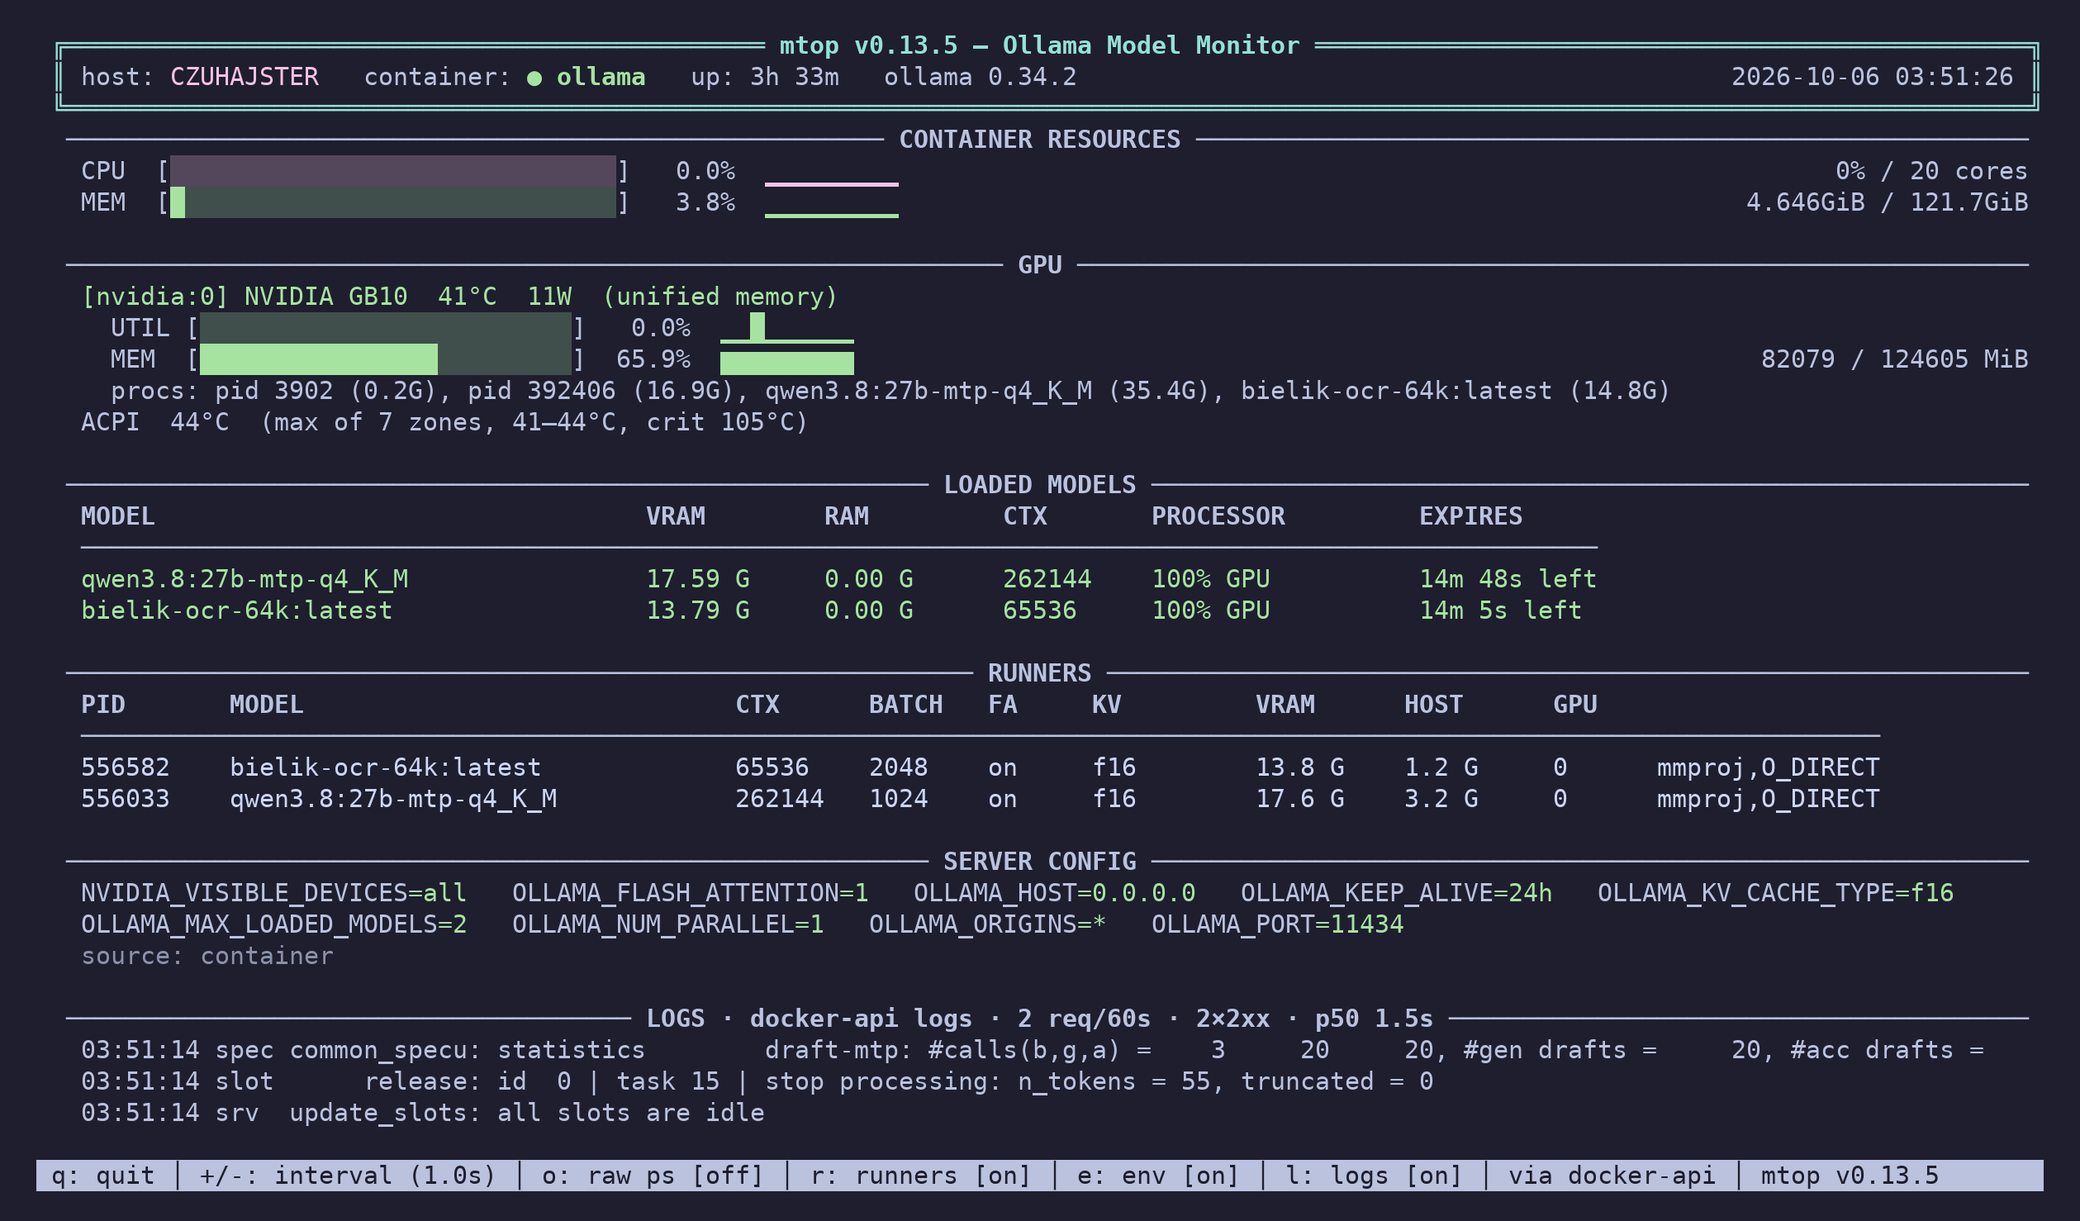
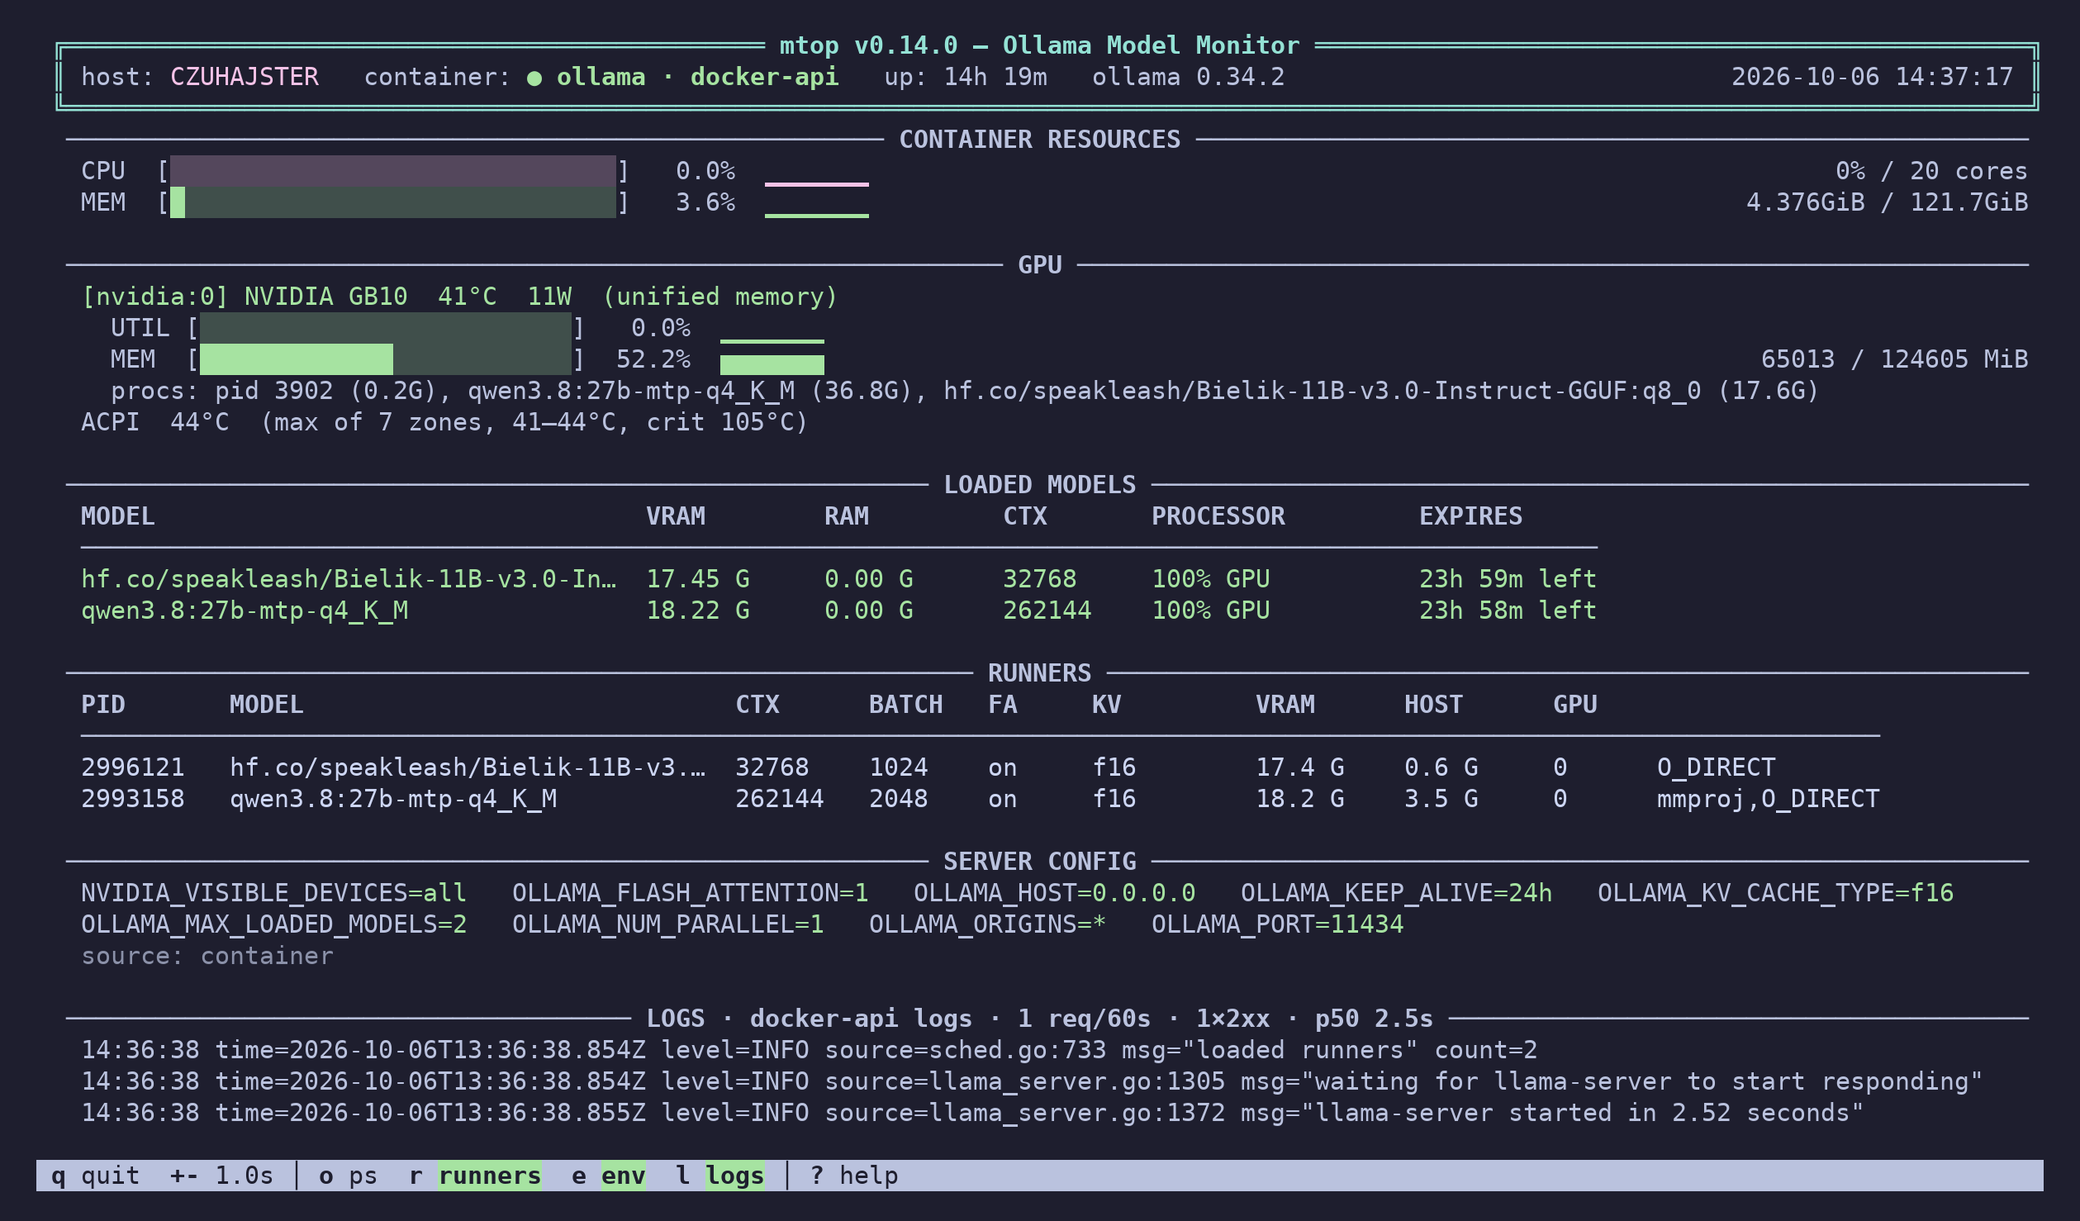
ui: shorter footer with ? help overlay
The --control footer was 187 columns and lost l: logs and more on a
136-column terminal. Keys are now bold with short labels, toggles that
are on get a green label instead of [on], and whole groups drop out
from the end on narrow terminals while q quit and ? help stay. ? opens
a framed overlay with every key, the toggle states, the version and the
container runtime; the runtime moved from the footer to the header.
The overlay and the load picker share draw_box. Screenshot refreshed.

diff --git a/src/mtop/ui.py b/src/mtop/ui.py
@@ -295,7 +295,9 @@ def render_header(win, y: int, snap: dict, stale: bool) -> int:
                                     if pid else (verb or "running")),
               status_attr)
     else:
-        field("container: ", status_icon + container, status_attr)
+        runtime = snap.get("runtime")
+        field("container: ", status_icon + container + (f" · {runtime}" if runtime else ""),
+              status_attr)
     if uptime and mode != "api" and status != "api-only":
         field("up: ", uptime, curses.color_pair(C_DIM))
     version = (snap.get("server") or {}).get("version")
@@ -800,39 +802,143 @@ def render_logs(win, y: int, snap: dict) -> int:
     return y + 1
 
 
+def footer_groups(interval: float, raw_ps: bool, can_raw_ps: bool, runners: bool = True,
+                  env: bool = True, logs: bool = False,
+                  control: bool | str = False) -> list[list[tuple]]:
+    """Key hints as groups of (key, label, state), most important first.
+
+    state is None for an action, True/False for a view toggle (drawn
+    highlighted when on). render_footer drops whole groups from the end
+    when the terminal is too narrow; `? help` always stays.
+    """
+    groups = [[("q", "quit", None), ("+-", f"{interval:.1f}s", None)]]
+    if control == "llama-swap":
+        groups.append([("↑↓", "select", None), ("s", "stop", None), ("L", "load", None)])
+    elif control:
+        groups.append([("↑↓", "select", None), ("s", "stop", None), ("t", "keep", None),
+                       ("L", "load", None), ("P", "pull", None)])
+    if can_raw_ps:
+        groups.append([("o", "ps", raw_ps), ("r", "runners", runners),
+                       ("e", "env", env), ("l", "logs", logs)])
+    return groups
+
+
+FOOTER_HELP = [("?", "help", None)]
+
+
+def _footer_text(groups: list[list[tuple]]) -> str:
+    return " " + " │ ".join("  ".join(f"{k} {lbl}" for k, lbl, _ in g) for g in groups) + " "
+
+
 def render_footer(win, interval: float, raw_ps: bool, can_raw_ps: bool,
-                  runners: bool = True, runtime: str | None = None,
-                  env: bool = True, logs: bool = False, control: bool | str = False,
-                  notice: tuple[str, int] | None = None):
-    """Key hints, or — while a model action asks or reports — `notice` (text, attr)."""
+                  runners: bool = True, env: bool = True, logs: bool = False,
+                  control: bool | str = False, notice: tuple[str, int] | None = None):
+    """Key hints, or — while a model action asks or reports — `notice` (text, attr).
+
+    Keys are bold, toggles that are on get a green label; groups that do not
+    fit are dropped from the end, the full list is behind `?`.
+    """
     max_y, max_x = win.getmaxyx()
     footer_y = max_y - 1
+    width = max_x - 1                    # the last cell is unwritable via addstr
+    base = curses.color_pair(C_DIM) | curses.A_REVERSE
     if notice:
         text, attr = notice
         try:
-            win.addstr(footer_y, 0, (" " + text + " ")[: max_x - 1].ljust(max_x - 1),
+            win.addstr(footer_y, 0, (" " + text + " ")[:width].ljust(width),
                        attr | curses.A_REVERSE)
         except curses.error:
             pass
         return
-    parts = ["q: quit", f"+/-: interval ({interval:.1f}s)"]
-    if control:
-        parts.append("↑/↓: select │ s: stop │ L: load model" if control == "llama-swap"
-                     else "↑/↓: select │ s: stop │ t: keep loaded │ L: load │ P: pull")
-    if can_raw_ps:
-        parts.append(f"o: raw ps [{'on' if raw_ps else 'off'}]")
-        parts.append(f"r: runners [{'on' if runners else 'off'}]")
-        parts.append(f"e: env [{'on' if env else 'off'}]")
-        parts.append(f"l: logs [{'on' if logs else 'off'}]")
-    if runtime:
-        parts.append(f"via {runtime}")
-    parts.append(f"mtop v{__version__}")
-    footer = " " + " │ ".join(parts) + " "
-    footer = footer[: max_x - 1].ljust(max_x - 1)
+    groups = footer_groups(interval, raw_ps, can_raw_ps, runners, env, logs, control)
+    while len(groups) > 1 and len(_footer_text(groups + [FOOTER_HELP])) > width:
+        groups.pop()
+    groups.append(FOOTER_HELP)
     try:
-        win.addstr(footer_y, 0, footer, curses.color_pair(C_DIM) | curses.A_REVERSE)
+        win.addstr(footer_y, 0, " " * width, base)
+        x = 1
+        for gi, group in enumerate(groups):
+            if gi:
+                x = _footer_put(win, footer_y, x, " │ ", base, width)
+            for ii, (key, label, state) in enumerate(group):
+                if ii:
+                    x = _footer_put(win, footer_y, x, "  ", base, width)
+                x = _footer_put(win, footer_y, x, key, base | curses.A_BOLD, width)
+                x = _footer_put(win, footer_y, x, " ", base, width)
+                on = curses.color_pair(C_OK) | curses.A_REVERSE | curses.A_BOLD
+                x = _footer_put(win, footer_y, x, label, on if state else base, width)
     except curses.error:
         pass
+
+
+def _footer_put(win, y: int, x: int, text: str, attr: int, width: int) -> int:
+    if x < width:
+        win.addstr(y, x, text[: width - x], attr)
+    return x + len(text)
+
+
+def help_lines(interval: float, raw_ps: bool, can_raw_ps: bool, runners: bool, env: bool,
+               logs: bool, control: bool | str, runtime: str | None) -> list[tuple[str | None, str]]:
+    """(key, description) rows of the `?` overlay; ("", title) starts a section,
+    (None, text) is a dim note."""
+    onoff = lambda b: "on" if b else "off"
+    rows = [("", "GENERAL"),
+            ("q  Esc", "quit"),
+            ("+  -", f"refresh faster / slower (now {interval:.1f}s)"),
+            ("?", "this help (any key closes it)")]
+    if can_raw_ps:
+        rows += [("", "VIEW"),
+                 ("o", f"raw `ollama ps` table [{onoff(raw_ps)}]"),
+                 ("r", f"RUNNERS section [{onoff(runners)}]"),
+                 ("e", f"SERVER CONFIG section [{onoff(env)}]"),
+                 ("l", f"LOGS section [{onoff(logs)}]")]
+    if control:
+        rows += [("", "MODELS (--control)"),
+                 ("↑  ↓", "select a model"),
+                 ("s", "stop (unload) the selected model")]
+        if control == "llama-swap":
+            rows += [("L", "load the selected catalog entry")]
+        else:
+            rows += [("t", "keep the selected model loaded (30m / 2h / 24h / forever)"),
+                     ("L", "pick a model from /api/tags and load it"),
+                     ("P", "pull a model by name, with progress"),
+                     ("X", "cancel the running pull")]
+    rows += [(None, ""), (None, f"mtop v{__version__}" + (f" · via {runtime}" if runtime else ""))]
+    return rows
+
+
+def draw_box(win, y0: int, x0: int, width: int, height: int, title: str, footer: str,
+             lines: list[str], attrs: list[int]) -> None:
+    """A ┌─┐ frame in C_ACCENT with `lines` inside, padded to the width."""
+    frame = curses.color_pair(C_ACCENT)
+    inner = width - 2
+    safe_addstr(win, y0, x0, "┌" + title.center(inner, "─")[:inner] + "┐", frame)
+    for r in range(height - 2):
+        safe_addstr(win, y0 + 1 + r, x0, "│", frame)
+        text = lines[r] if r < len(lines) else ""
+        safe_addstr(win, y0 + 1 + r, x0 + 1, (" " + text)[:inner].ljust(inner),
+                    attrs[r] if r < len(attrs) else 0)
+        safe_addstr(win, y0 + 1 + r, x0 + width - 1, "│", frame)
+    safe_addstr(win, y0 + height - 1, x0, "└" + footer.rjust(inner, "─") + "┘", frame)
+
+
+def render_help(win, rows: list[tuple[str | None, str]]) -> None:
+    """The `?` overlay: every key with what it does and the toggles' state."""
+    max_y, max_x = win.getmaxyx()
+    width = min(max_x - 4, 72)
+    height = min(len(rows) + 2, max_y - 4)
+    if width < 30 or height < 3:
+        return
+    lines, attrs = [], []
+    for key, text in rows:
+        if key:
+            lines.append(f"  {key:<7} {text}")
+            attrs.append(0)
+        else:
+            lines.append(text)
+            attrs.append(curses.color_pair(C_DIM) if key is None
+                         else curses.color_pair(C_TABLE_HDR) | curses.A_BOLD)
+    draw_box(win, 3, (max_x - width) // 2, width, height, " KEYS ", "", lines, attrs)
 
 
 def fmt_bytes(n: float) -> str:
@@ -945,17 +1051,8 @@ def render_picker(win, control: ModelControl, snap: dict) -> None:
             attr = curses.color_pair(C_OK)
             attrs.append(attr | curses.A_REVERSE if n == idx else attr)
 
-    frame = curses.color_pair(C_ACCENT)
-    inner = width - 2
-    safe_addstr(win, y0, x0, "┌" + title.center(inner, "─")[:inner] + "┐", frame)
-    for r in range(height - 2):
-        safe_addstr(win, y0 + 1 + r, x0, "│", frame)
-        text = lines[r] if r < len(lines) else ""
-        safe_addstr(win, y0 + 1 + r, x0 + 1, (" " + text)[:inner].ljust(inner),
-                    attrs[r] if r < len(attrs) else 0)
-        safe_addstr(win, y0 + 1 + r, x0 + width - 1, "│", frame)
     count = f" {pk['index'] + 1}/{len(items)} " if items else ""
-    safe_addstr(win, y0 + height - 1, x0, "└" + count.rjust(inner, "─") + "┘", frame)
+    draw_box(win, y0, x0, width, height, title, count, lines, attrs)
 
 
 def curses_main(stdscr, args):
@@ -985,12 +1082,15 @@ def curses_main(stdscr, args):
     control = (ModelControl(collector.endpoints, backend)
                if getattr(args, "control", False) else None)
     snap = collector.snapshot()
+    show_help = False
 
     try:
         while True:
             try:
                 key = stdscr.getch()
-                if control and control.pull_prompt and key not in (-1, curses.KEY_RESIZE):
+                if show_help and key not in (-1, curses.KEY_RESIZE):
+                    show_help = False                   # any key closes, q too
+                elif control and control.pull_prompt and key not in (-1, curses.KEY_RESIZE):
                     control.pull_key(key)
                 elif control and control.picker and key not in (-1, curses.KEY_RESIZE):
                     control.picker_key(key)
@@ -998,6 +1098,8 @@ def curses_main(stdscr, args):
                     control.ttl_key(key)
                 elif control and control.asking and key not in (-1, curses.KEY_RESIZE):
                     control.answer(key in (ord("y"), ord("Y")))   # anything else: no
+                elif key == ord("?"):
+                    show_help = True
                 elif key in (ord("q"), ord("Q"), 27):  # q, Q, ESC
                     break
                 elif key == ord("+"):
@@ -1079,11 +1181,13 @@ def curses_main(stdscr, args):
                 render_picker(stdscr, control, snap)
             if control:
                 render_pull(stdscr, control)
-            render_footer(stdscr, collector.interval, collector.show_raw_ps,
-                          mode in ("docker", "local"), collector.show_runners,
-                          snap.get("runtime"), collector.show_env, collector.show_logs,
-                          backend if control else False,
-                          notice_attr(control.notice(time.monotonic())) if control else None)
+            view = (collector.interval, collector.show_raw_ps, mode in ("docker", "local"),
+                    collector.show_runners, collector.show_env, collector.show_logs,
+                    backend if control else False)
+            if show_help:
+                render_help(stdscr, help_lines(*view, snap.get("runtime")))
+            render_footer(stdscr, *view,
+                          notice=notice_attr(control.notice(time.monotonic())) if control else None)
             stdscr.refresh()
     finally:
         collector.stop()

diff --git a/tests/test_control.py b/tests/test_control.py
@@ -147,13 +147,57 @@ def test_selected_row_is_drawn_reversed(win):
 def test_footer_shows_control_keys_or_the_notice():
     w = FakeWin(rows=3, cols=160)
     mtop.render_footer(w, 1.0, False, False, control=True)
-    assert "s: stop │ t: keep loaded │ L: load │ P: pull" in w.line(2)
+    assert "↑↓ select  s stop  t keep  L load  P pull" in w.line(2)
     w = FakeWin(rows=3, cols=160)
     mtop.render_footer(w, 1.0, False, False, control=True, notice=("Stop a? [y/N]", 0))
     assert w.line(2).strip() == "Stop a? [y/N]"
     w = FakeWin(rows=3, cols=160)
     mtop.render_footer(w, 1.0, False, False)
     assert "stop" not in w.line(2)
+
+
+def _footer(cols, **kw):
+    w = FakeWin(rows=3, cols=cols)
+    mtop.render_footer(w, 2.0, False, True, control=True, **kw)
+    return w, w.line(2)
+
+
+def test_footer_fits_136_columns_with_every_group():
+    _, line = _footer(136)
+    assert line.startswith(" q quit  +- 2.0s │ ↑↓ select")
+    assert "l logs │ ? help" in line and len(line) < 136
+    assert "mtop v" not in line and "via " not in line     # both live in the header
+
+
+def test_footer_drops_whole_groups_when_narrow_but_keeps_help():
+    _, line = _footer(80)
+    assert "P pull │ ? help" in line and "runners" not in line
+    _, line = _footer(40)
+    assert line.strip() == "q quit  +- 2.0s │ ? help"
+    _, line = _footer(12)                    # cut, never raises
+    assert line.startswith(" q quit")
+
+
+def test_footer_marks_toggles_that_are_on():
+    w = FakeWin(rows=3, cols=160)
+    mtop.render_footer(w, 1.0, False, True, runners=True, env=False, logs=True)
+    bold = {t for _, _, t, a in w.calls if a & curses.A_BOLD}
+    assert {"runners", "logs"} <= bold and not {"ps", "env"} & bold
+
+
+def test_help_lists_every_key_and_the_toggle_state():
+    rows = mtop.help_lines(2.0, False, True, True, False, True, True, "docker-api")
+    keys = {k for k, _ in rows if k}
+    assert {"q  Esc", "+  -", "?", "o", "r", "e", "l", "s", "t", "L", "P", "X"} <= keys
+    text = dict((k, t) for k, t in rows if k)
+    assert text["e"].endswith("[off]") and text["l"].endswith("[on]")
+    assert rows[-1][1].endswith("· via docker-api")
+    swap = {k for k, _ in mtop.help_lines(2.0, False, False, True, True, False,
+                                          "llama-swap", None) if k}
+    assert "L" in swap and not {"t", "P", "X", "o"} & swap
+    w = FakeWin(rows=30, cols=100)
+    mtop.render_help(w, rows)
+    assert "─ KEYS ─" in w.line(3) and "pull a model by name" in w.text()
 
 
 # ── load picker ──────────────────────────────────────────────────────────────

diff --git a/tests/test_llama_swap.py b/tests/test_llama_swap.py
@@ -382,7 +382,7 @@ def test_swap_cursor_is_drawn_and_footer_has_no_ttl_key():
     assert len(rev) == 1 and rev[0].startswith("qwen3.8-27b")
     w = FakeWin(rows=3, cols=160)
     mtop.render_footer(w, 1.0, False, False, control="llama-swap")
-    assert "s: stop │ L: load model" in w.line(2) and "t: keep" not in w.line(2)
+    assert "s stop  L load" in w.line(2) and "t keep" not in w.line(2)
 
 
 @pytest.fixture

diff --git a/README.md b/README.md
@@ -189,6 +189,7 @@ mtop
 | Key | Action |
 |-----|--------|
 | `q` / `ESC` | Quit |
+| `?` | All keys with what they do and which sections are on; any key closes it |
 | `+` | Decrease refresh interval (faster) |
 | `-` | Increase refresh interval (slower) |
 | `o` | Toggle raw `ollama ps` section |
@@ -209,14 +210,14 @@ mtop
 
 The screenshot above is a real session on a DGX Spark (GB10) with Ollama in Docker and two models loaded. Top to bottom:
 
-- **header** — host, container (or `ollama: serve · pid`, or the API URL in api mode), uptime, the Ollama version, and `+N endpoints` when several are polled; `STALE` appears if the collector falls behind
+- **header** — host, container and the runtime in use (`ollama · docker-api`; or `ollama: serve · pid`, or the API URL in api mode), uptime, the Ollama version, and `+N endpoints` when several are polled; `STALE` appears if the collector falls behind
 - **CONTAINER / PROCESS RESOURCES** — CPU normalized to the cgroup / systemd / affinity budget, memory with the accounting named (`pss`, `rss` or cgroup), sparklines of the recent history
 - **GPU** — one block per card, any vendor; `procs:` lists what NVML sees on the card, joined to the runners by PID; `ACPI` is the hottest ACPI thermal zone, which on the GB10 reads differently from the GPU sensor
 - **LOADED MODELS** — `/api/ps`, one table per endpoint when there are several; PROCESSOR computed exactly as `ollama ps` does
 - **RUNNERS** — the negotiated inference config from each runner's argv, plus the card it sits on
 - **SERVER CONFIG** — the `OLLAMA_*` environment the server was started with and where it was read from
 - **LOGS** — tail of the container log or journal, with request rate and latency parsed from the GIN access log
-- **footer** — keys, the container runtime in use (`via docker-api`), version
+- **footer** — keys in short form, toggles that are on in green; on a narrow terminal the view toggles go first, then the model keys, `? help` always stays
 
 `o` adds the raw `ollama ps` table. Refresh the screenshot with `tools/screenshot.py` (see its docstring).
 

diff --git a/CHANGELOG.md b/CHANGELOG.md
@@ -3,10 +3,23 @@
 ## Unreleased
 
 ### Added
+- **`?` shows every key** in a framed overlay: what it does, which sections
+  are on, the version and the container runtime. Any key closes it.
 - **README demo of `--control`:** an asciinema recording
   (`docs/demo-control.cast`) and its GIF: load from the picker, keep-alive,
   pull with progress, stop. `tools/demo-control.sh` records and renders it
   again (tmux, `uvx asciinema`, agg).
+
+### Changed
+- **Shorter footer.** Under `--control` it was 187 columns and lost
+  `l: logs` and more on a 136-column terminal; now it is ~110:
+  `q quit  +- 2.0s │ ↑↓ select  s stop  t keep  L load  P pull │ o ps  r runners  e env  l logs │ ? help`.
+  Keys are bold, a toggle that is on has a green label instead of `[on]`.
+  When the terminal is narrower, whole groups drop out from the end (view
+  toggles, then model keys); `q quit` and `? help` stay.
+- The version and `via <runtime>` left the footer: the version was already
+  in the header's title, the runtime now follows the container name there
+  (`container: ● ollama · docker-api`).
 
 ## 0.14.0 — 2026-10-06
 
